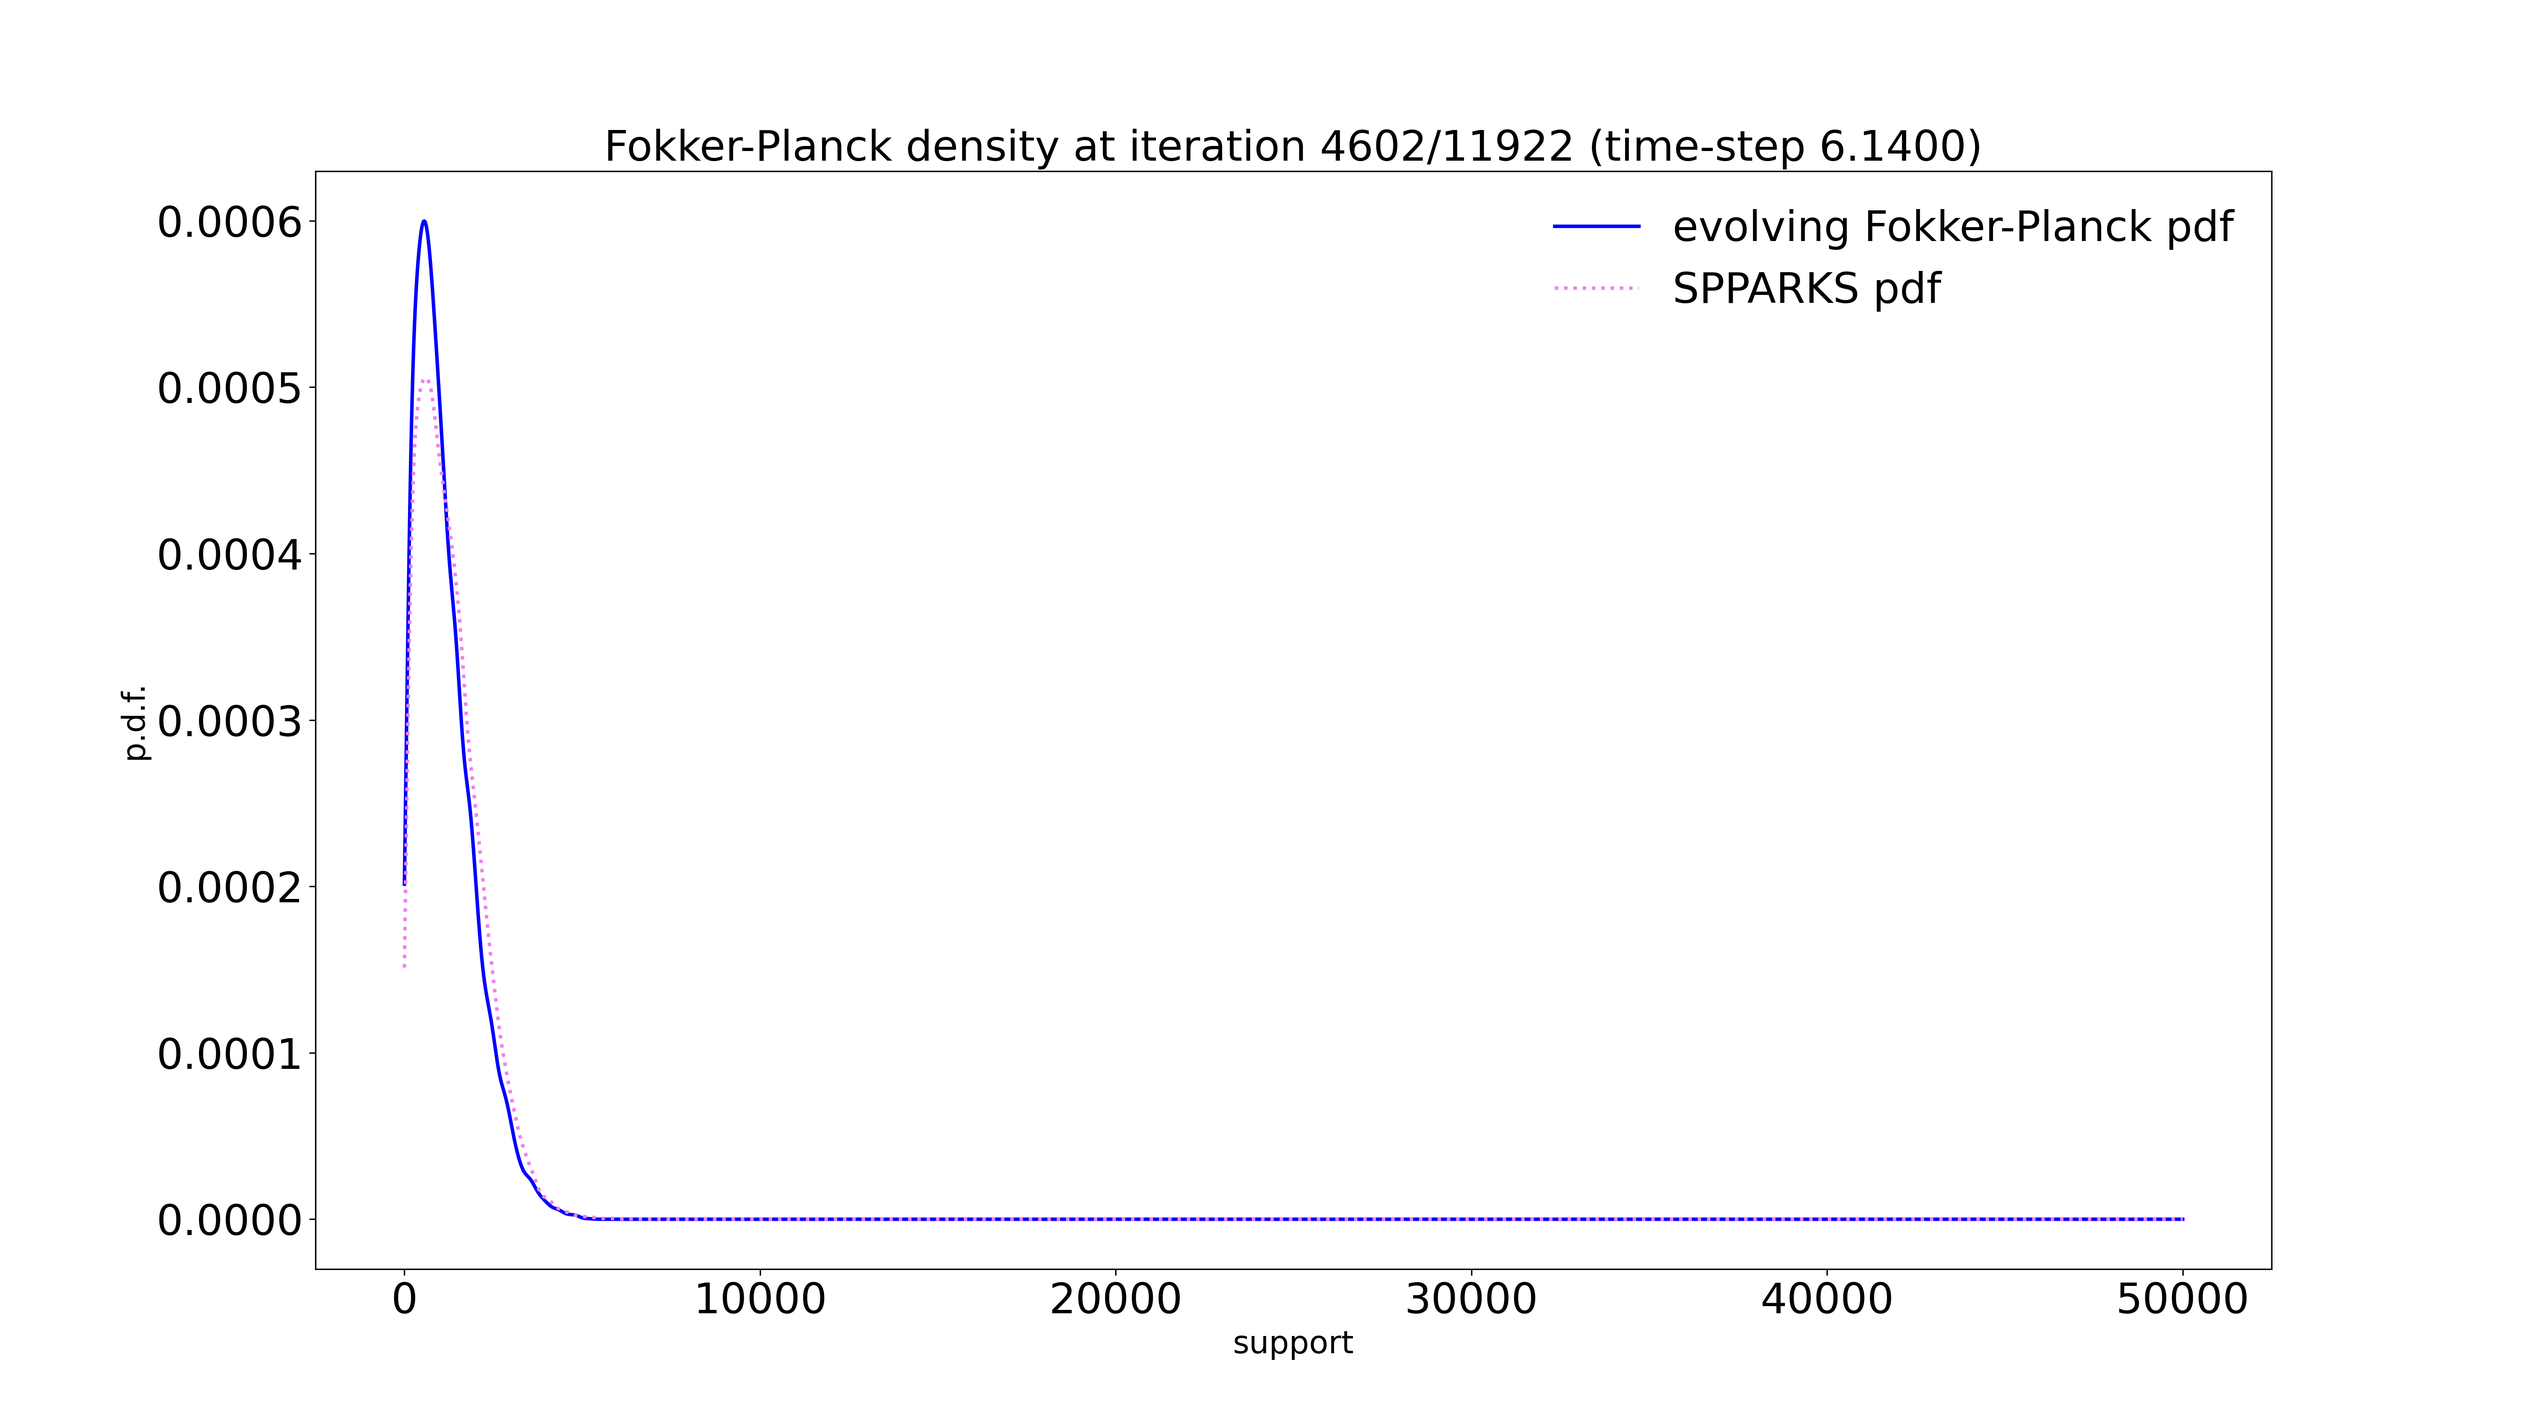
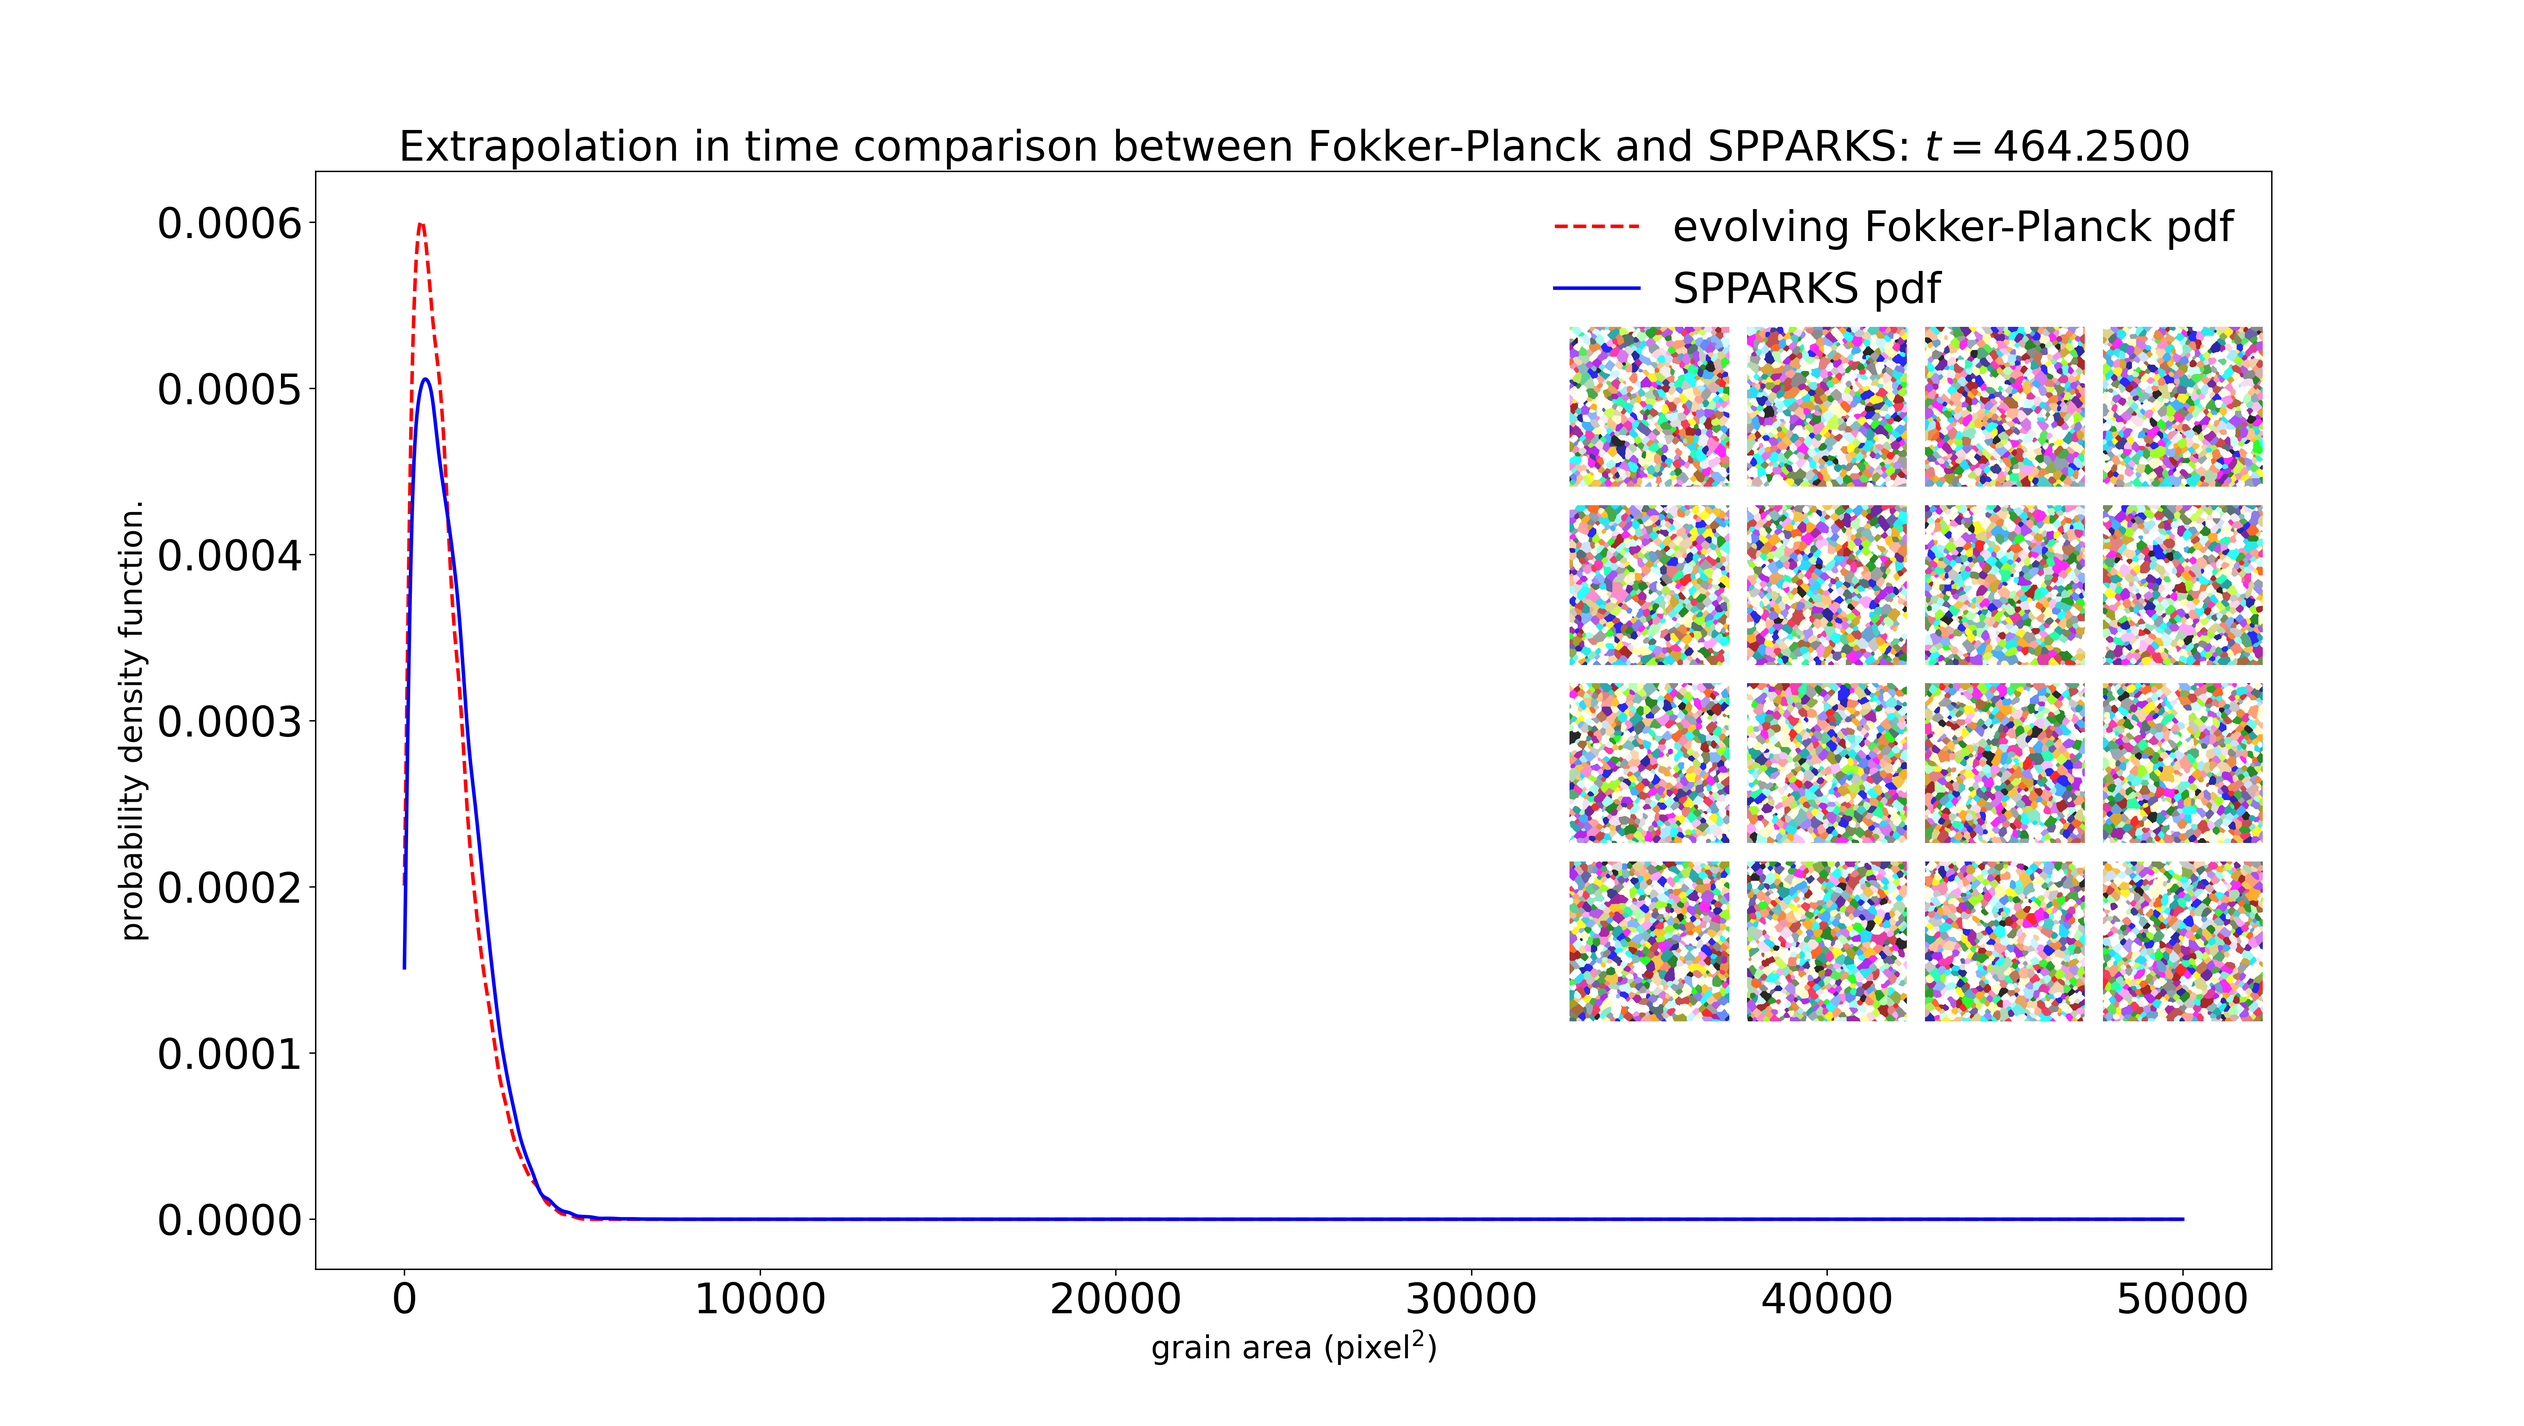
update compareSpkDensity3.png * good for presentation and TMS conference proceedings * dump ggComparison_FokkerPlanck_iter*.png

diff --git a/fp1d/model/compareSpkDensity3.py b/fp1d/model/compareSpkDensity3.py
@@ -1,0 +1,300 @@
+
+import numpy as np
+import matplotlib.pyplot as plt
+import matplotlib as mpl
+import datetime
+
+from scipy.stats import norm, truncnorm, uniform
+# The standard Normal distribution
+from scipy.stats import gaussian_kde as gkde # A standard kernel density estimator
+
+import time
+
+
+"""
+The script compares the prediction between (1) SPPARKS ICME model and (2) calibrated FPE model
+in extrapolation time. The FPE solver is only activated after the training stops.
+
+As such, this comparison is done purely at the testing time.
+"""
+
+startTime 	= 3.839e0;					# startTime -- [time unit]
+endTime  	= 9.800e0;					# endTime -- [time unit]
+dt = 5.0e-4;							# time-step
+M = int((endTime - startTime) / dt)
+
+logTime = np.loadtxt('../probabilityRepo/log.logtime.dat')[15:] # training dataset starts
+# iterationList = np.array((logTime - startTime) / dt, dtype=int) # start index offset
+# iterationList = np.loadtxt('iterationList.dat')
+iterationList = np.array([1, 502, 1022, 1542, 2042, 2562, 3062, 3582, 4082, 4602, 5122, 5622, 6142, 6642, 7162, 7682, 8182, 8702, 9202, 9722, 10222, 10742, 11262, 11762]) # this list length is only 24
+# log.16:39 in SPPARKS?
+spkTimeList = [0, 1, 1.375, 1.75, 2.25, 2.875, 3.625, 4.75, 6, 7.75, 10, 13, 16.75, 21.625, 27.875, 36, 46.5, 60, 77.5, 100, 129.25, 166.875, 215.5, 278.375, 359.5, 464.25, 599.5, 774.375, 1000, 1291.62, 1668.12, 2154.5, 2782.62, 3593.88, 4641.62, 5994.88, 7742.75, 10000, 12915.5, 16681.1, 20000]
+
+print(iterationList)
+
+# for ii in iterationList:
+# for i in range(len(iterationList)):
+for i in range(len(iterationList)-1, 0, -1): # flip from the end to the beginning to get more images in shorter time (due to KDE)
+	ii = iterationList[i]
+	startTimePython = datetime.datetime.now()
+
+	iteration_number = ii # (5, 5122, 11762) # input parameter: change this
+	spkIndex = i + 16 # reference i to log.spparks -- 16 SPPARKS iterations has been used for training
+	pCurrent = np.loadtxt('pCurrent.%d.dat' % iteration_number) 
+
+	x = np.loadtxt('x.dat')
+	var = 'logAreaOfGrain'
+
+	q_pInit = gkde(np.loadtxt('../probabilityRepo/' + 'log.' + var + '.15.dat'))
+	q_pCalibrated = gkde(np.loadtxt('../probabilityRepo/' + 'log.' + var + '.25.dat'))
+	q_pFinal = gkde(np.loadtxt('../probabilityRepo/' + 'log.' + var + '.39.dat'))
+	q_pSpkCurrent = gkde(np.loadtxt('../probabilityRepo/' + 'log.' + var + '.%d.dat' % spkIndex))
+
+	pInit = q_pInit(x)
+	pCalibrated = q_pCalibrated(x)
+	pFinal = q_pFinal(x)
+	pSpkCurrent = q_pSpkCurrent(x)
+
+	### plot
+
+	plt.figure()
+
+	# initPlt, 			= plt.plot(x, pInit, 'ro:', linewidth=2, label='first training pdf (kMC: 46.5 mcs)')
+	# calibratedPlt, 	= plt.plot(x, pCalibrated, 'mo-.', linewidth=2, label='last training pdf (kMC: 599.5 mcs)')
+	# finalPlt, 		= plt.plot(x, pFinal, 'go--', linewidth=2, label='last testing pdf (kMC: 16,681.1 mcs)')
+	currentPlt, 	= plt.plot(x, pCurrent, c='red', linestyle='--', linewidth=4, label='evolving Fokker-Planck pdf')
+	spkCurrentPlt,  = plt.plot(x, pSpkCurrent, c='blue', linestyle='-', linewidth=4, label='SPPARKS pdf')
+
+
+	plt.legend(handles=[currentPlt, spkCurrentPlt], fontsize=24, markerscale=2, loc='best', frameon=False) # bbox
+	plt.tick_params(axis='both', which='major', labelsize=24)
+	plt.tick_params(axis='both', which='minor', labelsize=24)
+
+	plt.xlim([0,15])
+	plt.ylim([0, 1.5 * np.max(pCurrent)])
+	plt.title('Fokker-Planck density at iteration %d/%d (time-step %.4f)' % (iteration_number, M, startTime + iteration_number * dt), fontsize=24) 
+	plt.xlabel(r'grain area (pixel$^2$)', fontsize=18)
+	plt.ylabel('probability density function.', fontsize=18)
+
+
+
+
+	def drawSamples(pCurrent, x):
+		min_x = np.min(x)
+		max_x = np.max(x)
+		#
+		listOfSamples = []
+		numOfSamples = 1e4
+		#
+		M = np.max( pCurrent / (1 / (max_x - min_x) ) )
+		#
+		while len(listOfSamples) < numOfSamples:
+			# x_sample = min_x + np.random.rand() * (max_x - min_x)
+			x_sample = x[np.random.randint(0, len(x))]
+			u = np.random.rand()
+			index_sample =  np.where(x == x_sample)
+			if u < pCurrent[index_sample] / ( M * 1/(max_x - min_x) ):
+				listOfSamples += [x_sample]
+				# print('Accepted %d samples!' % len(listOfSamples)) # debug
+		return listOfSamples
+
+	# listOfSamples = drawSamples(pCurrent, x) # debug
+	# plt.plot(x, pCurrent, c='blue', linestyle='-') # debug
+	# q_pCurrent = gkde(np.array(listOfSamples)) # debug
+	# plt.plot(x, q_pCurrent(x), 'r-.') # debug
+
+
+	### compare with the original (before log transformation)
+	# fig2 = plt.figure()
+	fig2 = plt.figure(num=None, figsize=(20, 11.3), dpi=300, facecolor='w', edgecolor='k') # screen size
+
+	listOfSamples = drawSamples(pCurrent, x)
+	listOfSamples = np.exp(np.array(listOfSamples))
+
+	var = 'areaOfGrain'
+	q_pInit = gkde(np.loadtxt('../probabilityRepo/' + 'log.' + var + '.15.dat'))
+	q_pCalibrated = gkde(np.loadtxt('../probabilityRepo/' + 'log.' + var + '.25.dat'))
+	q_pFinal = gkde(np.loadtxt('../probabilityRepo/' + 'log.' + var + '.39.dat'))
+	q_pCurrent = gkde(listOfSamples)
+	q_pSpkCurrent = gkde(np.loadtxt('../probabilityRepo/' + 'log.' + var + '.%d.dat' % spkIndex))
+
+	x = np.linspace(0, 5e4, num=10000)
+	pInit = q_pInit(x); pInit /= np.trapz(pInit, x);
+	pCalibrated = q_pCalibrated(x); pCalibrated /= np.trapz(pCalibrated, x);
+	pFinal = q_pFinal(x); pFinal /= np.trapz(pFinal, x);
+	pCurrent = q_pCurrent(x); pCurrent /= np.trapz(pCurrent, x);
+	pSpkCurrent = q_pSpkCurrent(x); pSpkCurrent /= np.trapz(pSpkCurrent, x);
+
+	# initPlt, 			= plt.plot(x, pInit, 'ro:', linewidth=2, label='first training pdf (kMC: 46.5 mcs)')
+	# calibratedPlt, 	= plt.plot(x, pCalibrated, 'mo-.', linewidth=2, label='last training pdf (kMC: 599.5 mcs)')
+	# finalPlt, 		= plt.plot(x, pFinal, 'go--', linewidth=2, label='last testing pdf (kMC: 16,681.1 mcs)')
+	currentPlt, 	= plt.plot(x, pCurrent, c='red', linestyle='--', linewidth=2, label='evolving Fokker-Planck pdf')
+	spkCurrentPlt,  = plt.plot(x, pSpkCurrent, c='blue', linestyle='-', linewidth=2, label='SPPARKS pdf')
+
+	plt.legend(handles=[currentPlt, spkCurrentPlt], fontsize=24, markerscale=2, loc='best', frameon=False) # bbox
+	plt.tick_params(axis='both', which='major', labelsize=24)
+	plt.tick_params(axis='both', which='minor', labelsize=24)
+
+	# plt.xlim([np.min(x), np.max(x)])
+	# plt.ylim([0, 1.5 * np.max(pCurrent)])
+	# plt.title("Extrapolation in time comparison between Fokker-Planck and SPPARKS" + "\n" + r"1d Fokker-Planck iter: %d/%d (SPPARKS $t$=%.4f)" % (iteration_number, M, startTime + iteration_number * dt), fontsize=24) # change this
+	# plt.title("Extrapolation in time comparison between Fokker-Planck and SPPARKS: $t=%.4f$" % (np.exp(startTime + iteration_number * dt)), fontsize=24) # exponential in time for kinetic Monte Carlo -- time calculated using FPE
+	plt.title("Extrapolation in time comparison between Fokker-Planck and SPPARKS: $t=%.4f$" % (spkTimeList[spkIndex]), fontsize=24) # time referenced using SPPARKS
+	plt.xlabel(r'grain area (pixel$^2$)', fontsize=18)
+	plt.ylabel('probability density function.', fontsize=18)
+
+	### add sample images from SPPARKS simulations
+	# https://towardsdatascience.com/how-to-add-an-image-to-a-matplotlib-plot-in-python-76098becaf53
+	# https://matplotlib.org/stable/gallery/text_labels_and_annotations/demo_annotation_box.html#sphx-glr-gallery-text-labels-and-annotations-demo-annotation-box-py
+
+	ax = plt.gca()
+
+	import matplotlib.image as image
+	img1_file   = "./potts_pfm_large2d/1/grain.%d.jpg" % spkIndex
+	img2_file   = "./potts_pfm_large2d/2/grain.%d.jpg" % spkIndex
+	img3_file   = "./potts_pfm_large2d/3/grain.%d.jpg" % spkIndex
+	img4_file   = "./potts_pfm_large2d/4/grain.%d.jpg" % spkIndex
+	img5_file   = "./potts_pfm_large2d/5/grain.%d.jpg" % spkIndex
+	img6_file   = "./potts_pfm_large2d/6/grain.%d.jpg" % spkIndex
+	img7_file   = "./potts_pfm_large2d/7/grain.%d.jpg" % spkIndex
+	img8_file   = "./potts_pfm_large2d/8/grain.%d.jpg" % spkIndex
+	img9_file   = "./potts_pfm_large2d/9/grain.%d.jpg" % spkIndex
+	img10_file  = "./potts_pfm_large2d/10/grain.%d.jpg" % spkIndex
+	img11_file  = "./potts_pfm_large2d/11/grain.%d.jpg" % spkIndex
+	img12_file  = "./potts_pfm_large2d/12/grain.%d.jpg" % spkIndex
+	img13_file  = "./potts_pfm_large2d/13/grain.%d.jpg" % spkIndex
+	img14_file  = "./potts_pfm_large2d/14/grain.%d.jpg" % spkIndex
+	img15_file  = "./potts_pfm_large2d/15/grain.%d.jpg" % spkIndex
+	img16_file  = "./potts_pfm_large2d/16/grain.%d.jpg" % spkIndex
+	img17_file  = "./potts_pfm_large2d/17/grain.%d.jpg" % spkIndex
+	img18_file  = "./potts_pfm_large2d/18/grain.%d.jpg" % spkIndex
+	img19_file  = "./potts_pfm_large2d/19/grain.%d.jpg" % spkIndex
+	img20_file  = "./potts_pfm_large2d/20/grain.%d.jpg" % spkIndex
+	img1    = image.imread(img1_file)
+	img2    = image.imread(img2_file)
+	img3    = image.imread(img3_file)
+	img4    = image.imread(img4_file)
+	img5    = image.imread(img5_file)
+	img6    = image.imread(img6_file)
+	img7    = image.imread(img7_file)
+	img8    = image.imread(img8_file)
+	img9    = image.imread(img9_file)
+	img10   = image.imread(img10_file)
+	img11   = image.imread(img11_file)
+	img12   = image.imread(img12_file)
+	img13   = image.imread(img13_file)
+	img14   = image.imread(img14_file)
+	img15   = image.imread(img15_file)
+	img16   = image.imread(img16_file)
+	img17   = image.imread(img17_file)
+	img18   = image.imread(img18_file)
+	img19   = image.imread(img19_file)
+	img20   = image.imread(img20_file)
+	# crop black padding
+	img1 	= img1[0+3:512-3,0+3:512-3]
+	img2	= img2[0+3:512-3,0+3:512-3]
+	img3	= img3[0+3:512-3,0+3:512-3]
+	img4	= img4[0+3:512-3,0+3:512-3]
+	img5	= img5[0+3:512-3,0+3:512-3]
+	img6	= img6[0+3:512-3,0+3:512-3]
+	img7	= img7[0+3:512-3,0+3:512-3]
+	img8	= img8[0+3:512-3,0+3:512-3]
+	img9	= img9[0+3:512-3,0+3:512-3]
+	img10	= img10[0+3:512-3,0+3:512-3]
+	img11 	= img11[0+3:512-3,0+3:512-3]
+	img12	= img12[0+3:512-3,0+3:512-3]
+	img13	= img13[0+3:512-3,0+3:512-3]
+	img14	= img14[0+3:512-3,0+3:512-3]
+	img15	= img15[0+3:512-3,0+3:512-3]
+	img16	= img16[0+3:512-3,0+3:512-3]
+	img17	= img17[0+3:512-3,0+3:512-3]
+	img18	= img18[0+3:512-3,0+3:512-3]
+	img19	= img19[0+3:512-3,0+3:512-3]
+	img20	= img20[0+3:512-3,0+3:512-3]
+
+	from matplotlib.offsetbox import (OffsetImage, AnnotationBbox)
+
+	ymin, ymax = plt.gca().get_ylim()
+
+	imgbox1 = OffsetImage(img1, zoom=0.18)
+	ab = AnnotationBbox(imgbox1, (50000, 0.775 * ymax), frameon=False)
+	ax.add_artist(ab)
+
+	imgbox2 = OffsetImage(img2, zoom=0.18)
+	ab = AnnotationBbox(imgbox2, (45000, 0.775 * ymax), frameon=False)
+	ax.add_artist(ab)
+
+	imgbox3 = OffsetImage(img3, zoom=0.18)
+	ab = AnnotationBbox(imgbox3, (40000, 0.775 * ymax), frameon=False)
+	ax.add_artist(ab)
+
+	imgbox4 = OffsetImage(img4, zoom=0.18)
+	ab = AnnotationBbox(imgbox4, (35000, 0.775 * ymax), frameon=False)
+	ax.add_artist(ab)
+
+	imgbox5 = OffsetImage(img5, zoom=0.18)
+	ab = AnnotationBbox(imgbox5, (50000, 0.605 * ymax), frameon=False)
+	ax.add_artist(ab)
+
+	imgbox6 = OffsetImage(img6, zoom=0.18)
+	ab = AnnotationBbox(imgbox6, (45000, 0.605 * ymax), frameon=False)
+	ax.add_artist(ab)
+
+	imgbox7 = OffsetImage(img7, zoom=0.18)
+	ab = AnnotationBbox(imgbox7, (40000, 0.605 * ymax), frameon=False)
+	ax.add_artist(ab)
+
+	imgbox8 = OffsetImage(img8, zoom=0.18)
+	ab = AnnotationBbox(imgbox8, (35000, 0.605 * ymax), frameon=False)
+	ax.add_artist(ab)
+
+	imgbox9 = OffsetImage(img9, zoom=0.18)
+	ab = AnnotationBbox(imgbox9, (50000, 0.435 * ymax), frameon=False)
+	ax.add_artist(ab)
+
+	imgbox10 = OffsetImage(img10, zoom=0.18)
+	ab = AnnotationBbox(imgbox10, (45000, 0.435 * ymax), frameon=False)
+	ax.add_artist(ab)
+
+	imgbox11 = OffsetImage(img11, zoom=0.18)
+	ab = AnnotationBbox(imgbox11, (40000, 0.435 * ymax), frameon=False)
+	ax.add_artist(ab)
+
+	imgbox12 = OffsetImage(img12, zoom=0.18)
+	ab = AnnotationBbox(imgbox12, (35000, 0.435 * ymax), frameon=False)
+	ax.add_artist(ab)
+
+	imgbox13 = OffsetImage(img13, zoom=0.18)
+	ab = AnnotationBbox(imgbox13, (50000, 0.265 * ymax), frameon=False)
+	ax.add_artist(ab)
+
+	imgbox14 = OffsetImage(img14, zoom=0.18)
+	ab = AnnotationBbox(imgbox14, (45000, 0.265 * ymax), frameon=False)
+	ax.add_artist(ab)
+
+	imgbox15 = OffsetImage(img15, zoom=0.18)
+	ab = AnnotationBbox(imgbox15, (40000, 0.265 * ymax), frameon=False)
+	ax.add_artist(ab)
+
+	imgbox16 = OffsetImage(img16, zoom=0.18)
+	ab = AnnotationBbox(imgbox16, (35000, 0.265 * ymax), frameon=False)
+	ax.add_artist(ab)
+
+
+	### save fig
+
+
+	plt.savefig('ggComparison_FokkerPlanck_iter%d.png' % ii, dpi=None, facecolor='w', edgecolor='w',
+        orientation='portrait', papertype=None, format=None,
+        transparent=False, bbox_inches=None, pad_inches=0.1,
+        frameon=None, metadata=None)
+
+	elapsedTimeInSeconds = datetime.datetime.now() - startTimePython
+	plt.close()
+
+	print('Done iteration %d. Elapsed time: %.2f seconds' % (ii, elapsedTimeInSeconds.total_seconds()))
+	# plt.show()
+
+
+
+
